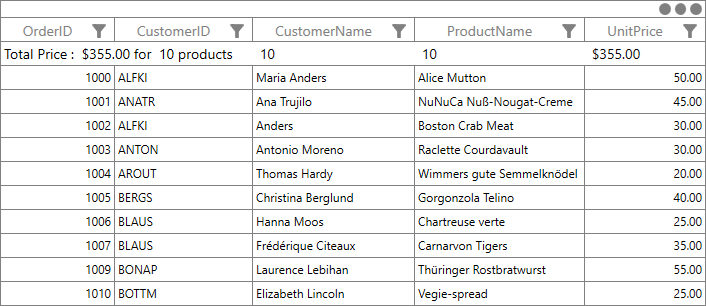
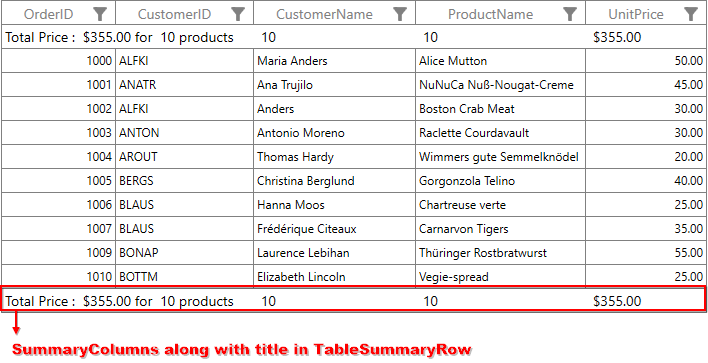
WPF-49853 Make the image changes for summary with title

diff --git a/wpf/DataGrid/Summaries.md b/wpf/DataGrid/Summaries.md
@@ -96,13 +96,11 @@ this.dataGrid.TableSummaryRows.Add(new GridTableSummaryRow()
 
 ### Displaying summary columns along with title
 
-You can display summary information along with title by setting [GridSummaryRow.ShowSummaryInRow](http://help.syncfusion.com/cr/cref_files/wpf/Syncfusion.SfGrid.WPF~Syncfusion.UI.Xaml.Grid.GridSummaryRow~ShowSummaryInRow.html) to `false` and setting the `GridSummaryRow.TitleColumnCount` for how many columns should be shows title and other defined columns  shows columns summary. 
+You can display summary information along with title by setting [GridSummaryRow.ShowSummaryInRow](http://help.syncfusion.com/cr/cref_files/wpf/Syncfusion.SfGrid.WPF~Syncfusion.UI.Xaml.Grid.GridSummaryRow~ShowSummaryInRow.html) to `false` and setting the `GridSummaryRow.TitleColumnCount` for how many columns should be shows title and other defined columns  shows summary columns. 
 
 Refer [Defining summary for column](#defining-summary-for-column) section to know more about how to defining summary columns.
 
 You have to define [GridSummaryRow.Title](http://help.syncfusion.com/cr/cref_files/wpf/Syncfusion.SfGrid.WPF~Syncfusion.UI.Xaml.Grid.GridSummaryRow~Title.html) based on [GridSummaryColumn.Name](http://help.syncfusion.com/cr/cref_files/wpf/Syncfusion.SfGrid.WPF~Syncfusion.UI.Xaml.Grid.GridSummaryColumn~Name.html) property to format summary columns values in defined title columns.
-
-You have to setting the `GridSummaryRow.TitleColumnCount` to how many columns should be display the title and other defined column shows the summary for defining summary columns.
 
 Refer [Formatting Summary](#formatting-summary) section to know more about how to format summary.
 
@@ -396,13 +394,11 @@ this.dataGrid.GroupSummaryRows.Add(new GridSummaryRow()
 
 ### Displaying summary columns along with title
 
-You can display summary information along with title by setting [GridSummaryRow.ShowSummaryInRow](http://help.syncfusion.com/cr/cref_files/wpf/Syncfusion.SfGrid.WPF~Syncfusion.UI.Xaml.Grid.GridSummaryRow~ShowSummaryInRow.html) to `false` and setting the `GridSummaryRow.TitleColumnCount` for how many columns should be shows title and other defined columns  shows columns summary. 
+You can display summary information along with title by setting [GridSummaryRow.ShowSummaryInRow](http://help.syncfusion.com/cr/cref_files/wpf/Syncfusion.SfGrid.WPF~Syncfusion.UI.Xaml.Grid.GridSummaryRow~ShowSummaryInRow.html) to `false` and setting the `GridSummaryRow.TitleColumnCount` for how many columns should be shows title and other defined columns  shows summary columns. 
 
 Refer [Defining summary for column](#defining-summary-for-column-1) section to know more about how to defining summary columns.
 
 You have to define [GridSummaryRow.Title](http://help.syncfusion.com/cr/cref_files/wpf/Syncfusion.SfGrid.WPF~Syncfusion.UI.Xaml.Grid.GridSummaryRow~Title.html) based on [GridSummaryColumn.Name](http://help.syncfusion.com/cr/cref_files/wpf/Syncfusion.SfGrid.WPF~Syncfusion.UI.Xaml.Grid.GridSummaryColumn~Name.html) property to format summary columns values in defined title columns.
-
-You have to setting the `GridSummaryRow.TitleColumnCount` to how many columns should be display the title and other defined column shows the summary for defining summary columns.
 
 Refer [Formatting Summary](#formatting-summary) section to know more about how to format summary.
 
@@ -646,13 +642,11 @@ this.dataGrid.CaptionSummaryRow = new GridSummaryRow()
 
 ### Displaying summary columns along with title
 
-You can display summary information along with title by setting [GridSummaryRow.ShowSummaryInRow](http://help.syncfusion.com/cr/cref_files/wpf/Syncfusion.SfGrid.WPF~Syncfusion.UI.Xaml.Grid.GridSummaryRow~ShowSummaryInRow.html) to `false` and setting the `GridSummaryRow.TitleColumnCount` for how many columns should be shows title and other defined columns  shows columns summary. 
+You can display summary information along with title by setting [GridSummaryRow.ShowSummaryInRow](http://help.syncfusion.com/cr/cref_files/wpf/Syncfusion.SfGrid.WPF~Syncfusion.UI.Xaml.Grid.GridSummaryRow~ShowSummaryInRow.html) to `false` and setting the `GridSummaryRow.TitleColumnCount` for how many columns should be shows title and other defined columns  shows summary columns. 
 
 Refer [Defining summary for column](#defining-summary-for-column-2) section to know more about how to defining summary columns.
 
 You have to define [GridSummaryRow.Title](http://help.syncfusion.com/cr/cref_files/wpf/Syncfusion.SfGrid.WPF~Syncfusion.UI.Xaml.Grid.GridSummaryRow~Title.html) based on [GridSummaryColumn.Name](http://help.syncfusion.com/cr/cref_files/wpf/Syncfusion.SfGrid.WPF~Syncfusion.UI.Xaml.Grid.GridSummaryColumn~Name.html) property to format summary columns values in defined title columns.
-
-You have to setting the `GridSummaryRow.TitleColumnCount` to how many columns should be display the title and other defined column shows the summary for defining summary columns.
 
 Refer [Formatting Summary](#formatting-summary) section to know more about how to format summary.
 
